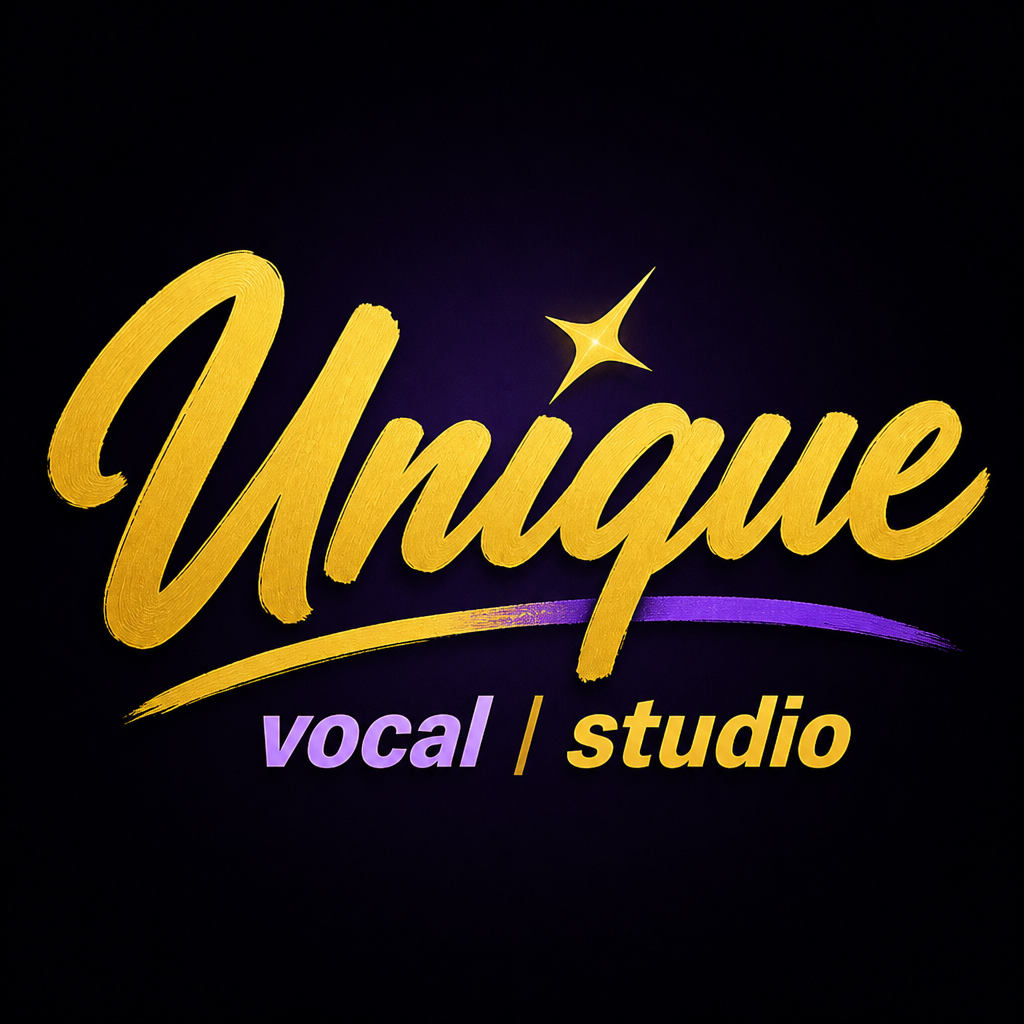
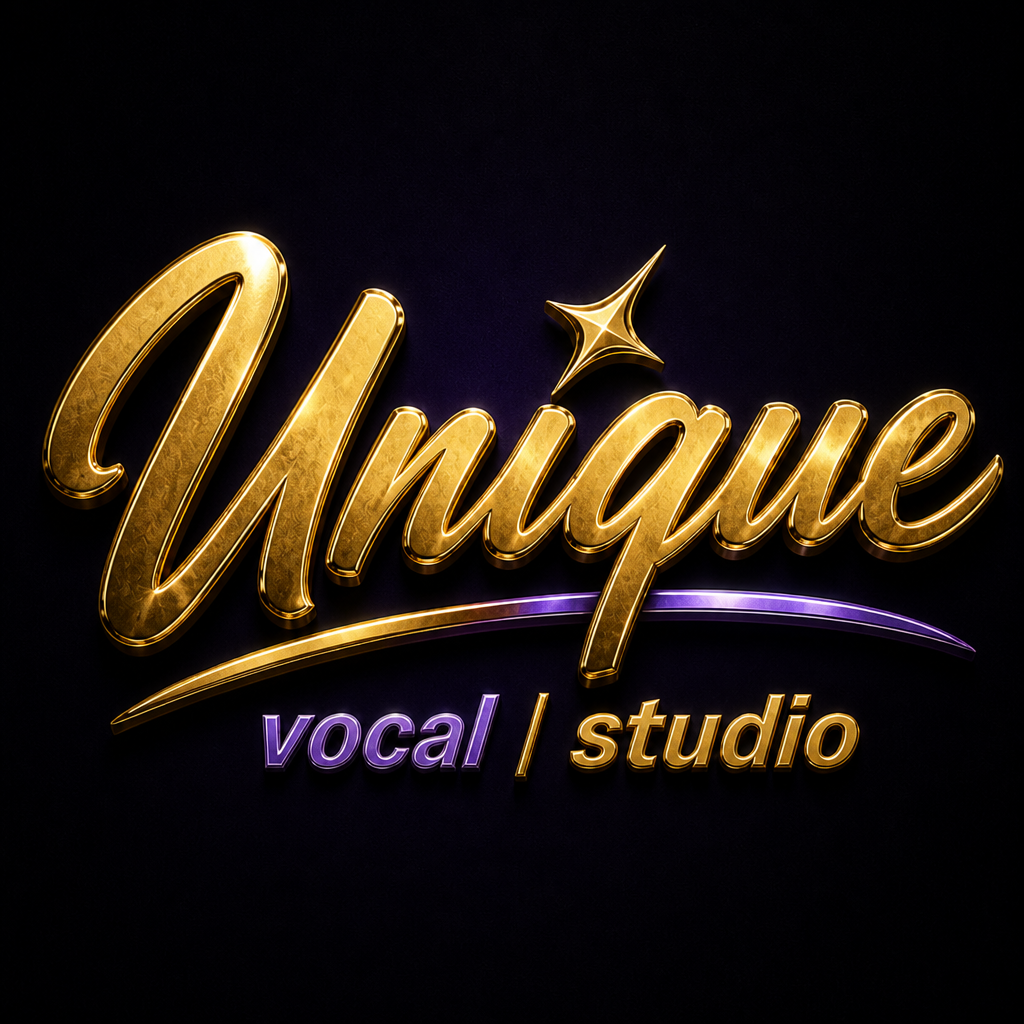
Give Unique lettering a cast-gold metal finish so the mark reads as jewelry, not flat yellow paint.

Changed region(s): [[0.0312, 0.2188, 1.0, 0.7812]]

diff --git a/app/layout.tsx b/app/layout.tsx
@@ -38,10 +38,10 @@ export const metadata: Metadata = {
   manifest: "/manifest.json",
   icons: {
     icon: [
-      { url: "/icons/favicon-32.png?v=37", sizes: "32x32", type: "image/png" },
-      { url: "/icons/icon-192.png?v=37", sizes: "192x192", type: "image/png" },
+      { url: "/icons/favicon-32.png?v=38", sizes: "32x32", type: "image/png" },
+      { url: "/icons/icon-192.png?v=38", sizes: "192x192", type: "image/png" },
     ],
-    apple: [{ url: "/icons/apple-touch-icon.png?v=37", sizes: "180x180" }],
+    apple: [{ url: "/icons/apple-touch-icon.png?v=38", sizes: "180x180" }],
   },
 };
 
@@ -75,7 +75,7 @@ const BOOT_SCRIPT = `(function(){
     document.documentElement.style.colorScheme="dark";
     document.documentElement.style.backgroundColor="#0a0a0f";
   }
-  var VER="27";
+  var VER="28";
   try{
     if(localStorage.getItem("uvs-sw-bust")!==VER){
       var hadController=Boolean(navigator.serviceWorker&&navigator.serviceWorker.controller);

diff --git a/components/Logo.tsx b/components/Logo.tsx
@@ -13,7 +13,7 @@ export default function Logo({ className = "", size = 48 }: LogoProps) {
   return (
     // eslint-disable-next-line @next/next/no-img-element
     <img
-      src="/icons/logo.png?v=37"
+      src="/icons/logo.png?v=38"
       alt="Unique Vocal Studio"
       width={size}
       height={size}

diff --git a/next.config.ts b/next.config.ts
@@ -77,7 +77,7 @@ const withPWA = withPWAInit({
   },
   extendDefaultRuntimeCaching: false,
   workboxOptions: {
-    cacheId: "uvs-moscow-v37",
+    cacheId: "uvs-moscow-v38",
     skipWaiting: true,
     clientsClaim: true,
     cleanupOutdatedCaches: true,
